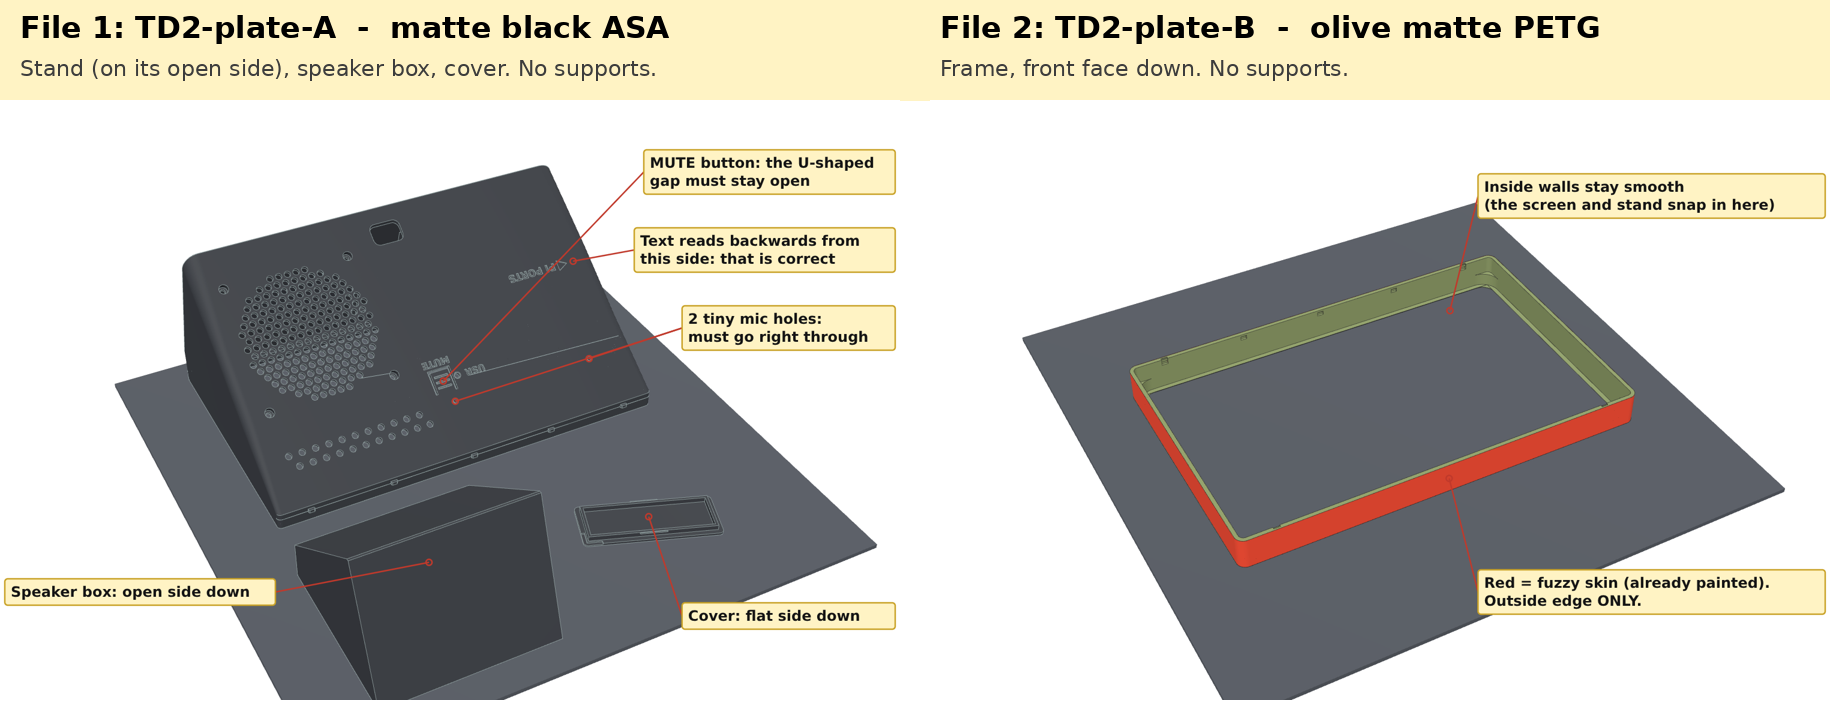
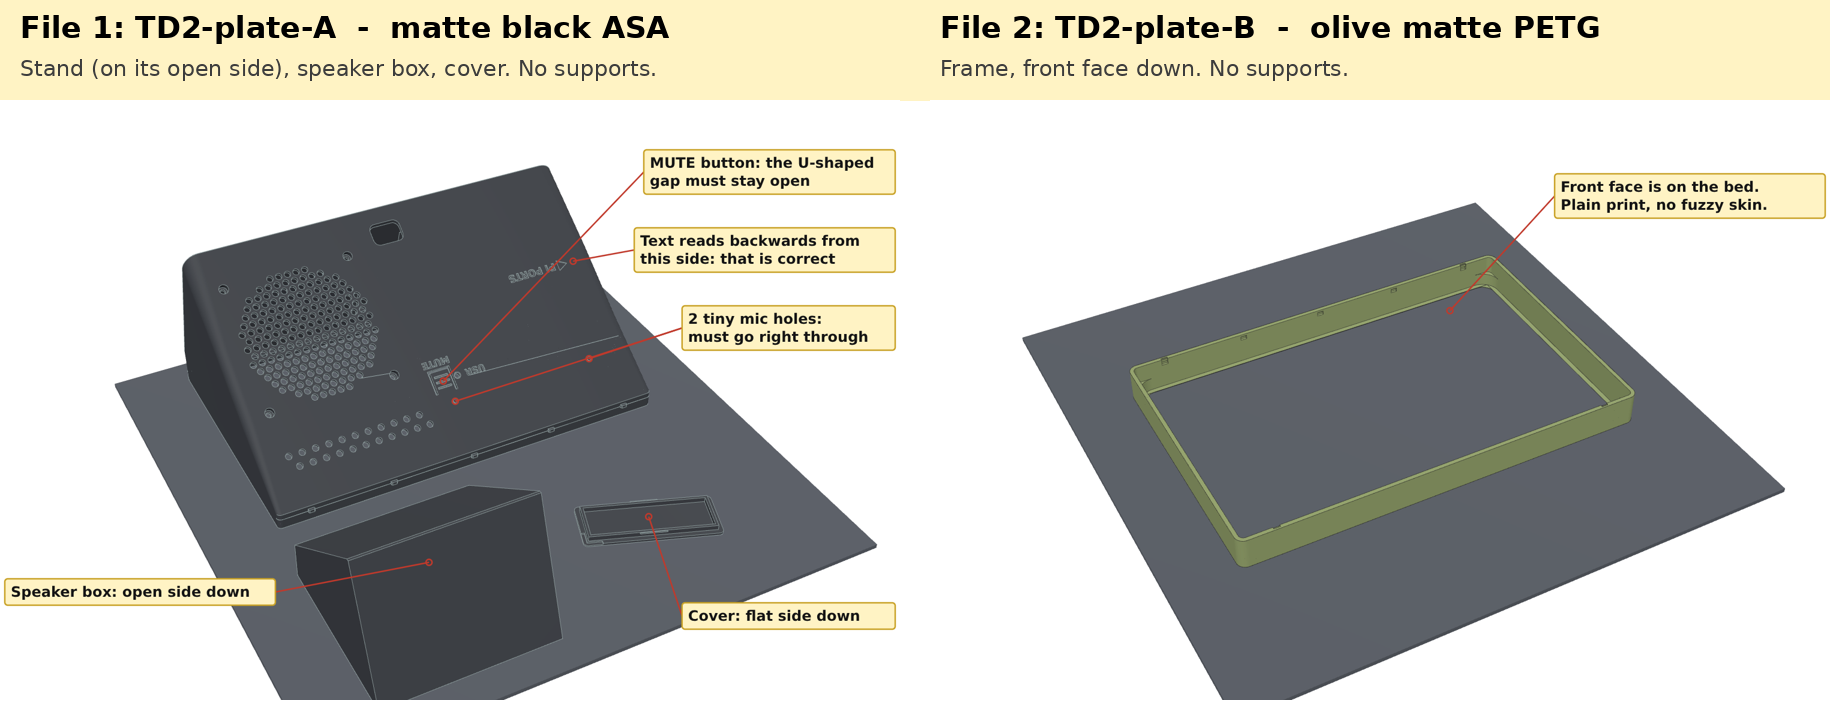
Frame: drop fuzzy skin (plain matte print)
Fuzzy skin would need trial prints to tune, and the printer doesn't do test
pieces. Plate B 3MF has no paint; note, picture, README, design notes updated.

Claude-Session: https://claude.ai/code/session_013mbAUoxRrcFvJomUevHXCc

diff --git a/source/make3mf.py b/source/make3mf.py
@@ -42,7 +42,7 @@ items_A=[('stand',stand,None,(128, sy)),
          ('speaker-box',box,None,(10+box.extents[0]/2+20, 10+box.extents[1]/2+5)),
          ('pi-ports-cover',cover,None,(10+box.extents[0]+20+15+cover.extents[0]/2+20, 10+cover.extents[1]/2+25))]
 pf=frame_paint(frame)
-items_B=[('frame',frame,pf,(128,128))]
+items_B=[('frame',frame,None,(128,128))]   # fuzzy skin dropped (2026-11-02): plain matte print
 write('TD2-plate-A-black-ASA-stand-box-cover.3mf', items_A)
 write('TD2-plate-B-olive-frame.3mf', items_B)
 # layout report

diff --git a/README.md b/README.md
@@ -17,10 +17,10 @@ A desk stand for the **Raspberry Pi Touch Display 2 (7", landscape)** that house
 | `speaker-box.stl` | As exported: rim down | 80 × 80 × 60 mm. No supports (the inside must not have any). |
 | `pi-ports-cover.stl` | As exported: plate down | 64 × 42 × 3.6 mm. No supports. |
 
-Materials: **matte black ASA** for the stand, speaker box and cover; the frame in **Spectrum PET-G MATT Olive Green (RAL 6003)** with fuzzy skin on its outside band only (0.05 / 0.25 mm). 0.4 mm nozzle, 0.2 mm layers, 4 walls, 25 % infill, **no supports**. Bed of at least 200 × 130 mm (both plates below are laid out for 256 × 256). All parts were slice-checked (PrusaSlicer 2.7): no stability warnings, about 246 g in total.
+Materials: **matte black ASA** for the stand, speaker box and cover; the frame in **Spectrum PET-G MATT Olive Green (RAL 6003)**, plain matte print (no fuzzy skin). 0.4 mm nozzle, 0.2 mm layers, 4 walls, 25 % infill, **no supports**. Bed of at least 200 × 130 mm (both plates below are laid out for 256 × 256). All parts were slice-checked (PrusaSlicer 2.7): no stability warnings, about 246 g in total.
 
 **Sending it to a print shop (Bambu):** `print/` holds exactly what the printer gets and nothing else:
-`TD2-plate-A-black-ASA-stand-box-cover.3mf` and `TD2-plate-B-olive-frame.3mf` (parts placed in print orientation; the frame's fuzzy skin is painted in), a plain-language note `TD2-note-for-Jayed.txt` and one picture `TD2-what-to-check.png`.
+`TD2-plate-A-black-ASA-stand-box-cover.3mf` and `TD2-plate-B-olive-frame.3mf` (parts placed in print orientation), a plain-language note `TD2-note-for-Jayed.txt` and one picture `TD2-what-to-check.png`.
 
 **Screw pilots and mic holes are printed undersize on purpose: drill them on site.** See [`docs/on-site-fixes.md`](docs/on-site-fixes.md) (1/16" and 3/32" bits). Design decisions and their reasons: [`docs/design-notes.md`](docs/design-notes.md).
 

diff --git a/docs/design-notes.md b/docs/design-notes.md
@@ -31,7 +31,7 @@ So later questions don't reopen settled points. Newest at the bottom of each sec
 ## Materials and finish
 - **Stand, speaker box, cover: matte black ASA** (playbook default; better for the Pi's heat than PETG/PLA).
 - **Frame: Spectrum PET-G MATT Olive Green (RAL 6003)**, the user's colour choice. ASA and PETG shrink slightly differently: the frame snap fit is on the on-site fixes list.
-- **Fuzzy skin on the frame's outside band only**, painted per triangle in the 3MF (survives Bambu's geometry-only import). **0.05 mm / 0.25 mm** (playbook: 0.12 / 0.3 was too coarse and sparkly). No fuzzy skin on the stand: the back has fit-critical holes and engraving.
+- **No fuzzy skin (dropped 2026-11-02).** Tried on the frame's outside band (painted, 0.05 / 0.25), but the user doesn't like how fuzzy skin looks, and making it finer needs trial prints, which the printer doesn't do. Plain matte print instead. Optional: a grey Scotch-Brite pad or 320–400 grit dulls the layer lines to satin.
 
 ## Print handoff
 - **Two Bambu 3MFs, one per material**: plate A black ASA (stand + box + cover), plate B olive (frame). All four parts don't fit one 256 mm plate, and plates and per-object filament don't survive a geometry-only import.
